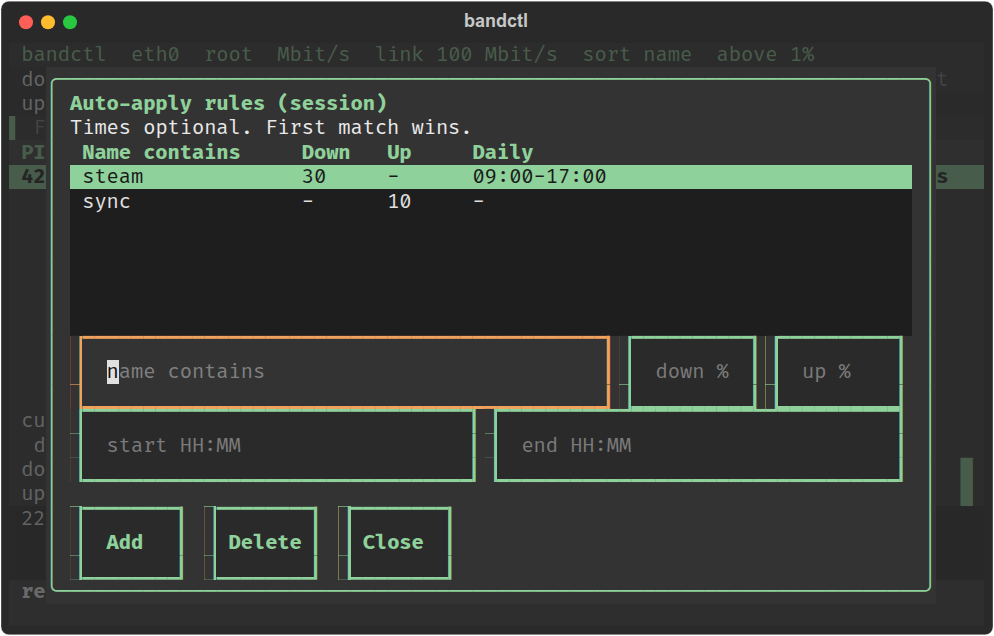
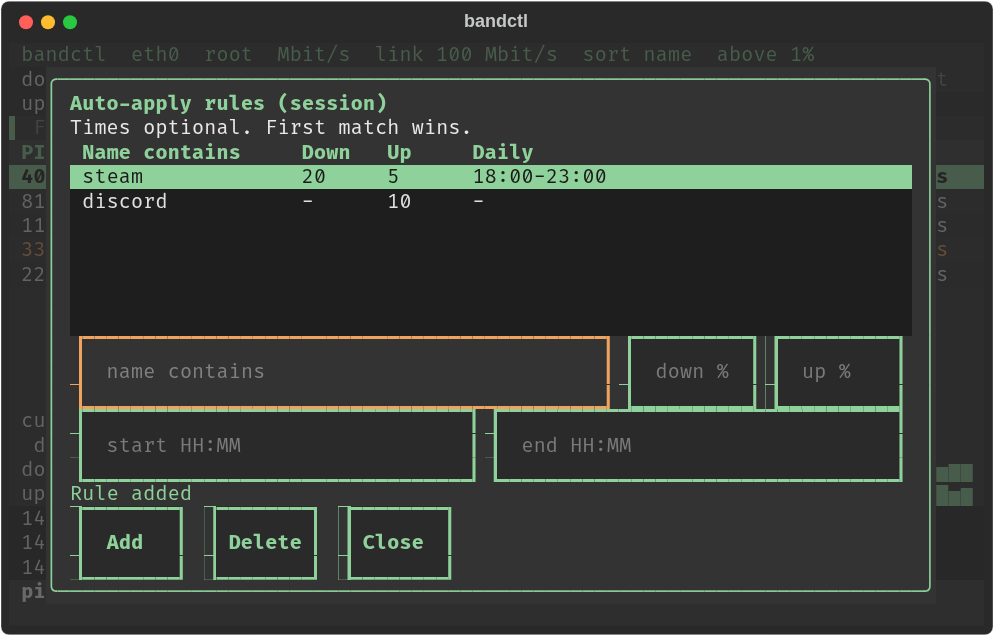
Regenerate screenshots with a headless script

diff --git a/tools/screenshots.py b/tools/screenshots.py
@@ -1,0 +1,248 @@
+"""Render the README screenshots headlessly. No root, no tc, no network.
+
+Every screen uses fake processes and the fake shapers from the unit tests, so
+the numbers are made up and repeatable. Output is one SVG per screen in
+docs/screenshots. With --png, a headless Chrome or Chromium turns each SVG
+into the PNG the docs link to.
+
+    .venv/bin/python tools/screenshots.py --png          # every screen
+    .venv/bin/python tools/screenshots.py main rules     # some screens, SVG only
+"""
+import os
+
+# Colour has to be on before Textual is imported.
+for name in ("NO_COLOR", "FORCE_COLOR"):
+    os.environ.pop(name, None)
+os.environ["COLORTERM"] = "truecolor"
+os.environ.setdefault("TERM", "xterm-256color")
+
+import asyncio, datetime, math, random, shutil, subprocess, sys, tempfile, time
+from pathlib import Path
+from unittest.mock import PropertyMock
+
+REPO = Path(__file__).resolve().parent.parent
+OUT = REPO / "docs" / "screenshots"
+sys.path[:0] = [str(REPO), str(REPO / "tests")]
+from test_app import FakeShaper
+from test_shaper import _shaper
+from bandctl.app import BandctlApp
+from bandctl.procscan import ProcessInfo
+from bandctl.settings import Settings, write_settings
+from bandctl.rules import AutoRule
+from textual.widgets import Input, DataTable
+
+PROCS = [
+    ProcessInfo(4012, "curl", "curl -O https://releases.ubuntu.com/24.04/ubuntu-24.04-desktop-amd64.iso", "daniel", 2, 4012),
+    ProcessInfo(1184, "firefox", "/usr/lib/firefox/firefox --new-window", "daniel", 14, 1184),
+    ProcessInfo(2210, "steam", "/home/daniel/.steam/ubuntu12_32/steam -silent", "daniel", 9, 2210),
+    ProcessInfo(3307, "rsync", "rsync -a --info=progress2 photos/ nas:/backup/photos/", "daniel", 3, 3307),
+    ProcessInfo(812, "discord", "/usr/share/discord/Discord", "daniel", 6, 812),
+    ProcessInfo(655, "systemd-resolve", "/usr/lib/systemd/systemd-resolved", "systemd-resolve", 4, 655),
+    ProcessInfo(901, "sshd", "sshd: daniel@pts/0", "root", 1, 901),
+]
+BASE = {4012: (29.6e6, 0.6e6), 1184: (8.4e6, 0.9e6), 2210: (19e6, 1.2e6), 3307: (0.7e6, 9.7e6),
+        812: (2.1e6, 1.4e6), 655: (20e3, 10e3), 901: (12e3, 30e3)}
+TOTALS = {4012: (1_430_000_000, 30_000_000), 1184: (412_000_000, 51_000_000), 2210: (2_900_000_000, 80_000_000),
+          3307: (12_000_000, 610_000_000), 812: (95_000_000, 60_000_000), 655: (1_200_000, 800_000),
+          901: (300_000, 900_000)}
+rnd = random.Random(7)
+def rates():
+    return {pid: (d * rnd.uniform(0.97, 1.02), u * rnd.uniform(0.95, 1.03)) for pid, (d, u) in BASE.items()}
+
+class Fake(FakeShaper):
+    def sample(self):
+        r = rates()
+        return {pid: r.get(pid, (0.0, 0.0)) for pid in self._shares}
+
+def seed_history(app, pids):
+    now = time.monotonic()
+    for i in range(60, 0, -1):
+        sample = {}
+        for pid, (d, u) in BASE.items():
+            wd = 1 + 0.25 * math.sin(i / 5 + pid) + 0.1 * math.sin(i * 1.7)
+            wu = 1 + 0.3 * math.sin(i / 3 + pid / 7) + 0.1 * math.cos(i * 1.3)
+            sample[pid] = (d * max(wd, 0.2), u * max(wu, 0.2))
+        app._history.record(now - i, set(pids), sample)
+
+def make_app(*, shaper=None, procs=PROCS, root=True, clock=None, startup=None, link=100_000_000):
+    app = BandctlApp(iface="eth0", shaper=shaper or Fake(), processes=lambda: list(procs), link_bps=link,
+                     is_root=root, rates=rates, clock=clock, startup_settings=startup)
+    return app
+
+async def select(app, pilot, pid):
+    table = app.query_one("#procs", DataTable)
+    for row in range(table.row_count):
+        if str(table.coordinate_to_cell_key((row, 0)).row_key.value) == str(pid):
+            table.move_cursor(row=row); await pilot.pause(0.3); return
+    raise SystemExit(f"row for {pid} not found")
+
+async def apply(app, pilot, pid, down, up):
+    await select(app, pilot, pid)
+    app.query_one("#down-pct", Input).value = down
+    app.query_one("#up-pct", Input).value = up
+    await pilot.press("a"); await pilot.pause(0.4)
+
+async def main_setup(app, pilot):
+    await pilot.pause(1.2)
+    seed_history(app, [p.pid for p in PROCS])
+    type(app._sampler).totals = PropertyMock(return_value=TOTALS)
+    await apply(app, pilot, 3307, "", "10")
+    await apply(app, pilot, 4012, "30", "")
+    await pilot.pause(2.2)
+    app.query_one("#procs", DataTable).focus(); await pilot.pause(0.3)
+
+def save(app, name):
+    (OUT / f"{name}.svg").write_text(app.export_screenshot(title="bandctl"))
+    print("saved", name)
+
+async def scene_main(name, w, h):
+    app = make_app()
+    async with app.run_test(size=(w, h)) as pilot:
+        await main_setup(app, pilot); save(app, name)
+
+async def scene_not_root():
+    sys.argv[0] = "/usr/local/bin/bandctl"
+    app = make_app(root=False)
+    async with app.run_test(size=(100, 30)) as pilot:
+        await pilot.pause(1.5); save(app, "not-root-100x30")
+
+async def scene_rules():
+    app = make_app()
+    async with app.run_test(size=(80, 24)) as pilot:
+        await main_setup(app, pilot)
+        await pilot.press("t"); await pilot.pause(0.3)
+        s = app.screen
+        for name, down, up, start, end in (("steam", "20", "5", "18:00", "23:00"), ("discord", "", "10", "", "")):
+            s.query_one("#rule-name", Input).value = name
+            s.query_one("#rule-down", Input).value = down
+            s.query_one("#rule-up", Input).value = up
+            s.query_one("#rule-start", Input).value = start
+            s.query_one("#rule-end", Input).value = end
+            await pilot.click("#rule-add"); await pilot.pause(0.3)
+        s.query_one("#rule-name", Input).focus(); await pilot.pause(0.3)
+        save(app, "rules-80x24")
+
+async def scene_auto_rules():
+    app = make_app(clock=lambda: datetime.time(19, 30))
+    async with app.run_test(size=(120, 36)) as pilot:
+        await pilot.pause(1.2)
+        seed_history(app, [p.pid for p in PROCS])
+        type(app._sampler).totals = PropertyMock(return_value=TOTALS)
+        await pilot.press("t"); await pilot.pause(0.3)
+        s = app.screen
+        for name, down, up, start, end in (("steam", "20", "5", "18:00", "23:00"), ("discord", "", "10", "", "")):
+            s.query_one("#rule-name", Input).value = name
+            s.query_one("#rule-down", Input).value = down
+            s.query_one("#rule-up", Input).value = up
+            s.query_one("#rule-start", Input).value = start
+            s.query_one("#rule-end", Input).value = end
+            await pilot.click("#rule-add"); await pilot.pause(0.3)
+        await pilot.press("escape"); await pilot.pause(2.5)
+        await select(app, pilot, 2210)
+        app.query_one("#procs", DataTable).focus(); await pilot.pause(1.2)
+        save(app, "auto-rules-120x36")
+
+async def scene_search():
+    app = make_app()
+    async with app.run_test(size=(100, 30)) as pilot:
+        await main_setup(app, pilot)
+        await pilot.press("/"); await pilot.pause(0.2)
+        for ch in "resolve":
+            await pilot.press(ch)
+        await pilot.pause(1.2); save(app, "search-100x30")
+
+def real_shaper():
+    shaper, host = _shaper()
+    for p in PROCS:
+        host.files[f"/proc/{p.pid}/stat"] = f"{p.pid} ({p.comm}) S " + "0 " * 18 + f"{p.start_ticks} 0\n"
+        host.files[f"/proc/{p.pid}/cgroup"] = "0::/user.slice/user-1000.slice/session-1.scope\n"
+    return shaper
+
+async def scene_groups():
+    app = make_app(shaper=real_shaper())
+    async with app.run_test(size=(80, 24)) as pilot:
+        await pilot.pause(1.2)
+        seed_history(app, [p.pid for p in PROCS])
+        type(app._sampler).totals = PropertyMock(return_value=TOTALS)
+        await pilot.press("g"); await pilot.pause(0.3)
+        s = app.screen
+        s.query_one("#group-name", Input).value = "downloads"
+        s.query_one("#group-pids", Input).value = "4012, 2210"
+        s.query_one("#group-down", Input).value = "40"
+        await pilot.click("#group-create"); await pilot.pause(0.4)
+        s.query_one("#group-name", Input).value = "backup"
+        s.query_one("#group-pids", Input).value = "3307"
+        s.query_one("#group-down", Input).value = ""
+        s.query_one("#group-up", Input).value = "15"
+        await pilot.click("#group-create"); await pilot.pause(0.4)
+        s.query_one("#group-table", DataTable).focus(); await pilot.pause(0.4)
+        save(app, "groups-80x24")
+
+async def scene_settings():
+    app = make_app()
+    async with app.run_test(size=(80, 24)) as pilot:
+        await main_setup(app, pilot)
+        await pilot.press("x"); await pilot.pause(0.3)
+        app.screen.query_one("#settings-path", Input).value = "/home/daniel/bandctl.json"
+        app.screen.query_one("#settings-path", Input).focus(); await pilot.pause(0.3)
+        save(app, "settings-80x24")
+
+async def scene_startup():
+    d = tempfile.mkdtemp(); path = Path(d) / "bandctl.json"
+    write_settings(path, Settings("eth0", 80_000_000, 20_000_000, (AutoRule("steam", 20, 5),), ()))
+    app = make_app(shaper=real_shaper(), startup=str(path), link=None)
+    async with app.run_test(size=(80, 24)) as pilot:
+        await pilot.pause(1.2)
+        seed_history(app, [p.pid for p in PROCS])
+        type(app._sampler).totals = PropertyMock(return_value=TOTALS)
+        await pilot.pause(2.2)
+        app.query_one("#procs", DataTable).focus(); await pilot.pause(0.3)
+        save(app, "startup-config-80x24")
+
+SCENES = {
+    "main": lambda: scene_main("main-120x36", 120, 36),
+    "compact": lambda: scene_main("compact-80x24", 80, 24),
+    "narrow": lambda: scene_main("narrow-77x38", 77, 38),
+    "small": lambda: scene_main("small-60x20", 60, 20),
+    "notroot": scene_not_root, "rules": scene_rules, "auto": scene_auto_rules,
+    "search": scene_search, "groups": scene_groups, "settings": scene_settings, "startup": scene_startup,
+}
+NAMES = {
+    "main": "main-120x36", "compact": "compact-80x24", "narrow": "narrow-77x38", "small": "small-60x20",
+    "notroot": "not-root-100x30", "rules": "rules-80x24", "auto": "auto-rules-120x36",
+    "search": "search-100x30", "groups": "groups-80x24", "settings": "settings-80x24",
+    "startup": "startup-config-80x24",
+}
+
+
+def to_png(svg: Path) -> None:
+    browser = next((b for b in ("google-chrome", "chromium", "chromium-browser") if shutil.which(b)), None)
+    if browser is None:
+        raise SystemExit("--png needs google-chrome or chromium on PATH")
+    head = svg.read_text()[:400]
+    view = head.split('viewBox="', 1)[1].split('"', 1)[0].split()
+    width, height = int(float(view[2])), math.ceil(float(view[3]))
+    with tempfile.TemporaryDirectory() as tmp:
+        page = Path(tmp) / "shot.html"
+        page.write_text(f'<html><body style="margin:0"><img src="{svg.as_uri()}" '
+                        f'width="{width}" height="{height}" style="display:block"></body></html>')
+        subprocess.run([browser, "--headless=new", "--no-sandbox", "--disable-gpu", "--hide-scrollbars",
+                        "--default-background-color=00000000", "--virtual-time-budget=4000",
+                        f"--window-size={width},{height}", f"--screenshot={svg.with_suffix('.png')}",
+                        page.as_uri()], check=True, capture_output=True)
+    svg.unlink()
+
+
+def main() -> None:
+    args = [a for a in sys.argv[1:] if a != "--png"]
+    unknown = [a for a in args if a not in SCENES]
+    if unknown:
+        raise SystemExit(f"unknown screen: {', '.join(unknown)}. Choose from: {', '.join(SCENES)}")
+    for key in args or SCENES:
+        asyncio.run(SCENES[key]())
+        if "--png" in sys.argv:
+            to_png(OUT / f"{NAMES[key]}.svg")
+
+
+if __name__ == "__main__":
+    main()
